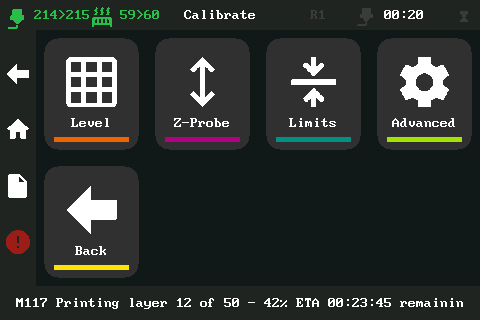
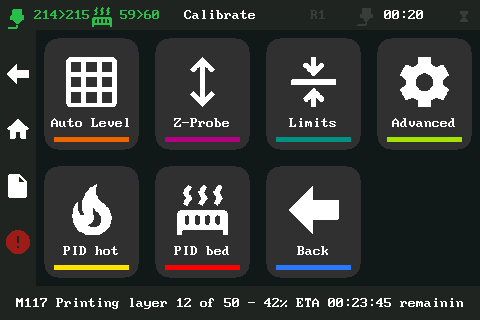
gui: PID tuning with a live temperature graph; Level -> Auto Bed Level
- Calibrate gains PID hot / PID bed (they leave the More page); the PID
  screen samples the heater once a second and draws a bar graph of the
  temperature against the target, plus the current value, PWM and elapsed
  time. The panel stays awake for this screen (no stepper timing), Save
  writes the new PID values (SAVE_CONFIG) once the run finished
- tapping PID again while it runs just reopens the graph
- the Level menu is now 'Auto Level' and its title 'Auto Bed Level'

Changed region(s): [[0.3125, 0.5, 0.75, 0.875], [0.125, 0.5625, 0.25, 0.8125], [0.0938, 0.375, 0.2812, 0.4062]]

diff --git a/mcu/st7796.py b/mcu/st7796.py
@@ -62,12 +62,14 @@ GUI_SCREENS = {
     ],
     # Tuning menus that used to live in main / Extrude / More.
     'calibrate': [
-        ("Level", "bedmesh", ('scr', 'mesh')),
+        ("Auto Level", "bedmesh", ('scr', 'mesh')),
         ("Z-Probe", "zoffset", ('scr', 'probe')),
         ("Limits", "limits", ('scr', 'limits')),
         ("Advanced", "cog", ('scr', 'advanced')),
+        ("PID hot", "fire", ('pid', 'extruder')),
+        ("PID bed", "bed", ('pid', 'heater_bed')),
         ("Back", "back", ('scr', 'main')),
-        None, None, None,
+        None,
     ],
     'move': [
         ("Home All", "home", 'G28'),
@@ -124,8 +126,6 @@ GUI_SCREENS = {
     ],
     'network': [],
     'more': [
-        ("PID hot", "fire", 'PID_CALIBRATE HEATER=extruder TARGET=200'),
-        ("PID bed", "bed", 'PID_CALIBRATE HEATER=heater_bed TARGET=60'),
         ("Save", "save", 'SAVE_CONFIG'),
         ("Filam", "extrude", ('fsens',)),
         ("Network", "network", ('scr', 'network')),
@@ -217,9 +217,9 @@ POPUP_ITEMS = {
 
 # Friendly titles for the top bar (otherwise the screen id is shown)
 GUI_TITLES = {'ptune': 'Tune', 'filament': 'Filament',
-              'estop': 'Confirm', 'mesh': 'Level', 'probe': 'Z-Probe',
+              'estop': 'Confirm', 'mesh': 'Auto Bed Level', 'probe': 'Z-Probe',
               'meshadj': 'Adjust', 'advanced': 'Advanced',
-              'limits': 'Limits', 'calibrate': 'Calibrate'}
+              'limits': 'Limits', 'calibrate': 'Calibrate', 'pid': 'PID'}
 
 # Sentinel stored in the grid for a cell holding an icon (drawn by write_glyph).
 ICON = 0x100
@@ -491,6 +491,12 @@ class ST7796:
         self._fil_unloaded = False
         self._BSTEPS = (0.005, 0.01, 0.1, 0.5)
         self._zstep_i = 1
+        self._pid_heater = None
+        self._pid_samples = []
+        self._pid_t0 = 0.
+        self._pid_last = 0.
+        self._pid_active = False
+        self._pid_done = False
         self._bstep_i = 1
         self._baby_dirty = False
         self._popup = None
@@ -1345,7 +1351,8 @@ class ST7796:
         return out
     def _gui_rail(self):
         back = {'meshadj': 'mesh', 'advanced': 'calibrate',
-                'limits': 'calibrate'}.get(self.gui_screen)
+                'limits': 'calibrate', 'pid': 'calibrate'}.get(
+                    self.gui_screen)
         if back is None:
             back = ('scr', 'print') if self.gui_screen in ('ptune',
                                                            'filament') \
@@ -1861,7 +1868,7 @@ class ST7796:
         except Exception:
             m = None
         if not m or not m[0]:
-            self._gui_warn("No bed mesh - run Level first")
+            self._gui_warn("No bed mesh - run Auto Level first")
             return
         self._adj_orig = [list(r) for r in m]
         self._adj_cur = [list(r) for r in m]
@@ -2869,6 +2876,8 @@ class ST7796:
         # with "Timer too close". Printing has a deep move buffer, so redraws are
         # allowed then - but a G28/G29 inside a print still sets _homing.
         if self._gui_action_active:
+            if self.gui_screen == 'pid':
+                return False          # live PID graph: keep sampling/drawing
             return not self._mesh_can_draw()
         if self._homing:
             if eventtime - self._homing_t > 300.:   # safety: stale counter
@@ -3098,6 +3107,8 @@ class ST7796:
                               accent=COL_ERR)
     def _gui_render(self, eventtime):
         if self._gui_ops:
+            if self.gui_screen == 'pid' and self._pid_active:
+                self._gui_defer(eventtime, 0.3)   # retry the live graph
             return
         if self._disp_quiet(eventtime) and not self._mesh_can_draw():
             self._gui_defer(eventtime)
@@ -3142,6 +3153,8 @@ class ST7796:
             self._cards_view_ops(ops, LIM_KEYS, eventtime)
         elif self.gui_screen == 'probe':
             self._probe_view_ops(ops, eventtime)
+        elif self.gui_screen == 'pid':
+            self._pid_view_ops(ops, eventtime)
         g = self.gui_btn_gap
         i2 = g // 2
         for (x, y, w, h, idx, item) in self._gui_buttons():
@@ -3249,6 +3262,11 @@ class ST7796:
                 logging.exception("st7796: GUI action failed")
             finally:
                 self._gui_action_active = False
+                if self._pid_active:
+                    self._pid_active = False
+                    self._pid_done = True
+                    self._gui_msg = "PID done - Save to keep it"
+                    self._gui_msg_until = reactor.monotonic() + 600.
                 self._gui_defer(reactor.monotonic(), 0.2)
         reactor.register_async_callback(_run)
     # --- hot-end safeguard -------------------------------------------------
@@ -3556,6 +3574,84 @@ class ST7796:
         ty = y + max(0, (h - 64) // 2)
         ops.append(lambda tx=tx, ty=ty, label=label, bg=bg, fg=fg:
                    self._gui_text(tx, ty, label, fg, bg, 4))
+    # --- PID tuning -------------------------------------------------------
+    # A live temperature graph: the display stays awake for this screen (the
+    # heater only runs PWM, no stepper timing to protect).
+    def _pid_btns(self):
+        x0 = self.RAIL_W + 8
+        w = self.width - self.RAIL_W - 16
+        bw = (w - 8) // 2
+        y = self.height - self.STRIP_H - 52
+        return [('save', x0, y, bw, 46), ('back', x0 + bw + 8, y, bw, 46)]
+    def _pid_status(self, eventtime):
+        try:
+            st = self.printer.lookup_object(
+                self._pid_heater or 'extruder').get_status(eventtime)
+            return (float(st.get('temperature') or 0.),
+                    float(st.get('target') or 0.),
+                    float(st.get('power') or 0.))
+        except Exception:
+            return None
+    def _pid_view_ops(self, ops, eventtime):
+        x0 = self.RAIL_W + 8
+        x1 = self.width - 8
+        now = self.printer.get_reactor().monotonic()
+        st = self._pid_status(eventtime)
+        if st is None:
+            return
+        temp, tgt, pwr = st
+        if self._pid_active and now - self._pid_last >= 1.2:
+            self._pid_samples.append(temp)
+            del self._pid_samples[:-120]
+            self._pid_last = now
+            self._gui_defer(eventtime, 1.2)      # next sample/redraw
+        name = "PID hotend" if self._pid_heater == 'extruder' else "PID bed"
+        col = self._temp_color(temp, tgt)
+        ops.append(lambda: self._gui_text(x0, self.TOP_H + 6, name, COL_C3,
+                                          COL_BG, 1))
+        ops.append(lambda: self._gui_text(x0, self.TOP_H + 22,
+                                          "%d/%dC" % (temp, tgt), col,
+                                          COL_BG, 2))
+        ops.append(lambda: self._gui_text(
+            x0 + 170, self.TOP_H + 26, "PWM %d%%" % int(pwr * 100. + .5),
+            COL_WARN, COL_BG, 1))
+        el = int(now - self._pid_t0) if self._pid_t0 else 0
+        ops.append(lambda el=el: self._gui_text(
+            x1 - 48, self.TOP_H + 6, "%02d:%02d" % (el // 60, el % 60),
+            COL_DIM, COL_BG, 1))
+        gy0 = self.TOP_H + 56
+        gy1 = self._pid_btns()[0][2] - 10
+        gw = x1 - x0
+        gh = gy1 - gy0
+        ops.append(lambda: self.cmd_rect.send([x0, gy0, gw, gh,
+                                               self.gui_bar_bg]))
+        tmax = max(50., tgt + 25.)
+        ty = gy1 - int(min(1., tgt / tmax) * (gh - 2))
+        ops.append(lambda ty=ty: self.cmd_rect.send([x0, ty, gw, 1, COL_DIM]))
+        n = max(1, min(120, gw // 3))
+        smp = self._pid_samples[-n:]
+        cw = max(1, gw // n)
+        bars = []
+        for i, t in enumerate(smp):
+            h = int(min(1., max(0., t / tmax)) * (gh - 2))
+            if h > 0:
+                bars.append((x0 + i * cw, gy1 - h, max(1, cw - 1), h))
+        for (bx, by, bw, bh) in bars:
+            ops.append(lambda bx=bx, by=by, bw=bw, bh=bh: self.cmd_rect.send(
+                [bx, by, bw, max(1, bh), COL_HEAT]))
+        for (kind, bx, by, bw, bh) in self._pid_btns():
+            lab = "Save" if kind == 'save' else "Back"
+            act = kind == 'save' and not self._pid_done
+            fg = COL_DIM if act else COL_WHITE
+            acc = (COL_DIM if act else COL_OK) if kind == 'save' else COL_WHITE
+            ops.append(lambda bx=bx, by=by, bw=bw, bh=bh: self._gui_round(
+                bx, by, bw, bh, self.gui_btn_bg))
+            ops.append(lambda bx=bx, by=by, bw=bw, bh=bh, lab=lab, fg=fg:
+                       self._gui_text_center(bx, bw, by + (bh - 16) // 2,
+                                             lab, fg, self.gui_btn_bg, 1))
+            ops.append(lambda bx=bx, by=by, bw=bw, bh=bh, acc=acc:
+                       self.cmd_rect.send([bx + 8, by + bh - 8, bw - 16, 4,
+                                           acc]))
     # --- Z-Probe (manual probe calibrate) ---------------------------------
     # Layout follows the adjustment popup: [-][+][step] on top, then the
     # Start / Apply / Save / Cancel row underneath.
@@ -3718,6 +3814,28 @@ class ST7796:
         elif isinstance(action, tuple) and action[0] == 'bstep':
             self._bstep_i = (self._bstep_i + 1) % len(self._BSTEPS)
             self._gui_render(eventtime)
+        elif isinstance(action, tuple) and action[0] == 'pid':
+            if self._pid_active:
+                if self._pid_heater == action[1]:
+                    # already tuning this heater: just show the graph again
+                    self.gui_screen = 'pid'
+                    self._gui_render(eventtime)
+                else:
+                    self._gui_warn("PID already running")
+                return
+            heater = action[1]
+            target = 200 if heater == 'extruder' else 60
+            self._pid_heater = heater
+            self._pid_samples = []
+            self._pid_t0 = now
+            self._pid_last = now
+            self._pid_active = True
+            self._pid_done = False
+            self.gui_screen = 'pid'
+            self._gui_msg = "PID %s %dC - running" % (
+                "hotend" if heater == 'extruder' else "bed", target)
+            self._gui_msg_until = now + 900.
+            script = 'PID_CALIBRATE HEATER=%s TARGET=%d' % (heater, target)
         elif isinstance(action, tuple) and action[0] == 'zp':
             kind = action[1]
             now = self.printer.get_reactor().monotonic()
@@ -3887,7 +4005,7 @@ class ST7796:
             script = "M300 S1000 P60\n" + (script or "")
         self._gui_run_action(script)
     def _gui_tap(self, rx, ry, eventtime):
-        if self._gui_action_active:
+        if self._gui_action_active and self.gui_screen != 'pid':
             self.gcode.respond_info("GUI: busy - tap ignored")
             return
         sx, sy = self._raw_to_screen(rx, ry)
@@ -3981,6 +4099,18 @@ class ST7796:
                     self.gcode.respond_info("GUI nivelar: CANCELAR")
                     self._gui_do(('scr', 'print'), eventtime)
                 return
+        if self.gui_screen == 'pid':
+            for (kind, x, y, w, h) in self._pid_btns():
+                if x <= sx < x + w and y <= sy < y + h:
+                    self.gcode.respond_info("GUI pid: %s" % kind)
+                    if kind == 'save':
+                        if not self._pid_done:
+                            self._gui_warn("PID still running")
+                            return
+                        self._gui_do('SAVE_CONFIG', eventtime)
+                    else:
+                        self._gui_do(('scr', 'calibrate'), eventtime)
+                    return
         if self.gui_screen == 'probe':
             for (kind, x, y, w, h) in self._probe_btns():
                 if x <= sx < x + w and y <= sy < y + h:

diff --git a/tools/tft_sim.py b/tools/tft_sim.py
@@ -127,7 +127,7 @@ class Printer:
         if name == 'virtual_sdcard':
             return Obj({'progress': 0.42, 'is_active': self.printing})
         if name == 'extruder':
-            return Obj({'temperature': 214.3, 'target': 215.0,
+            return Obj({'temperature': 214.3, 'target': 215.0, 'power': 0.62,
                         'pressure_advance': 0.045, 'smooth_time': 0.040})
         if name == 'heater_bed':
             return Obj({'temperature': 59.7, 'target': 60.0})
